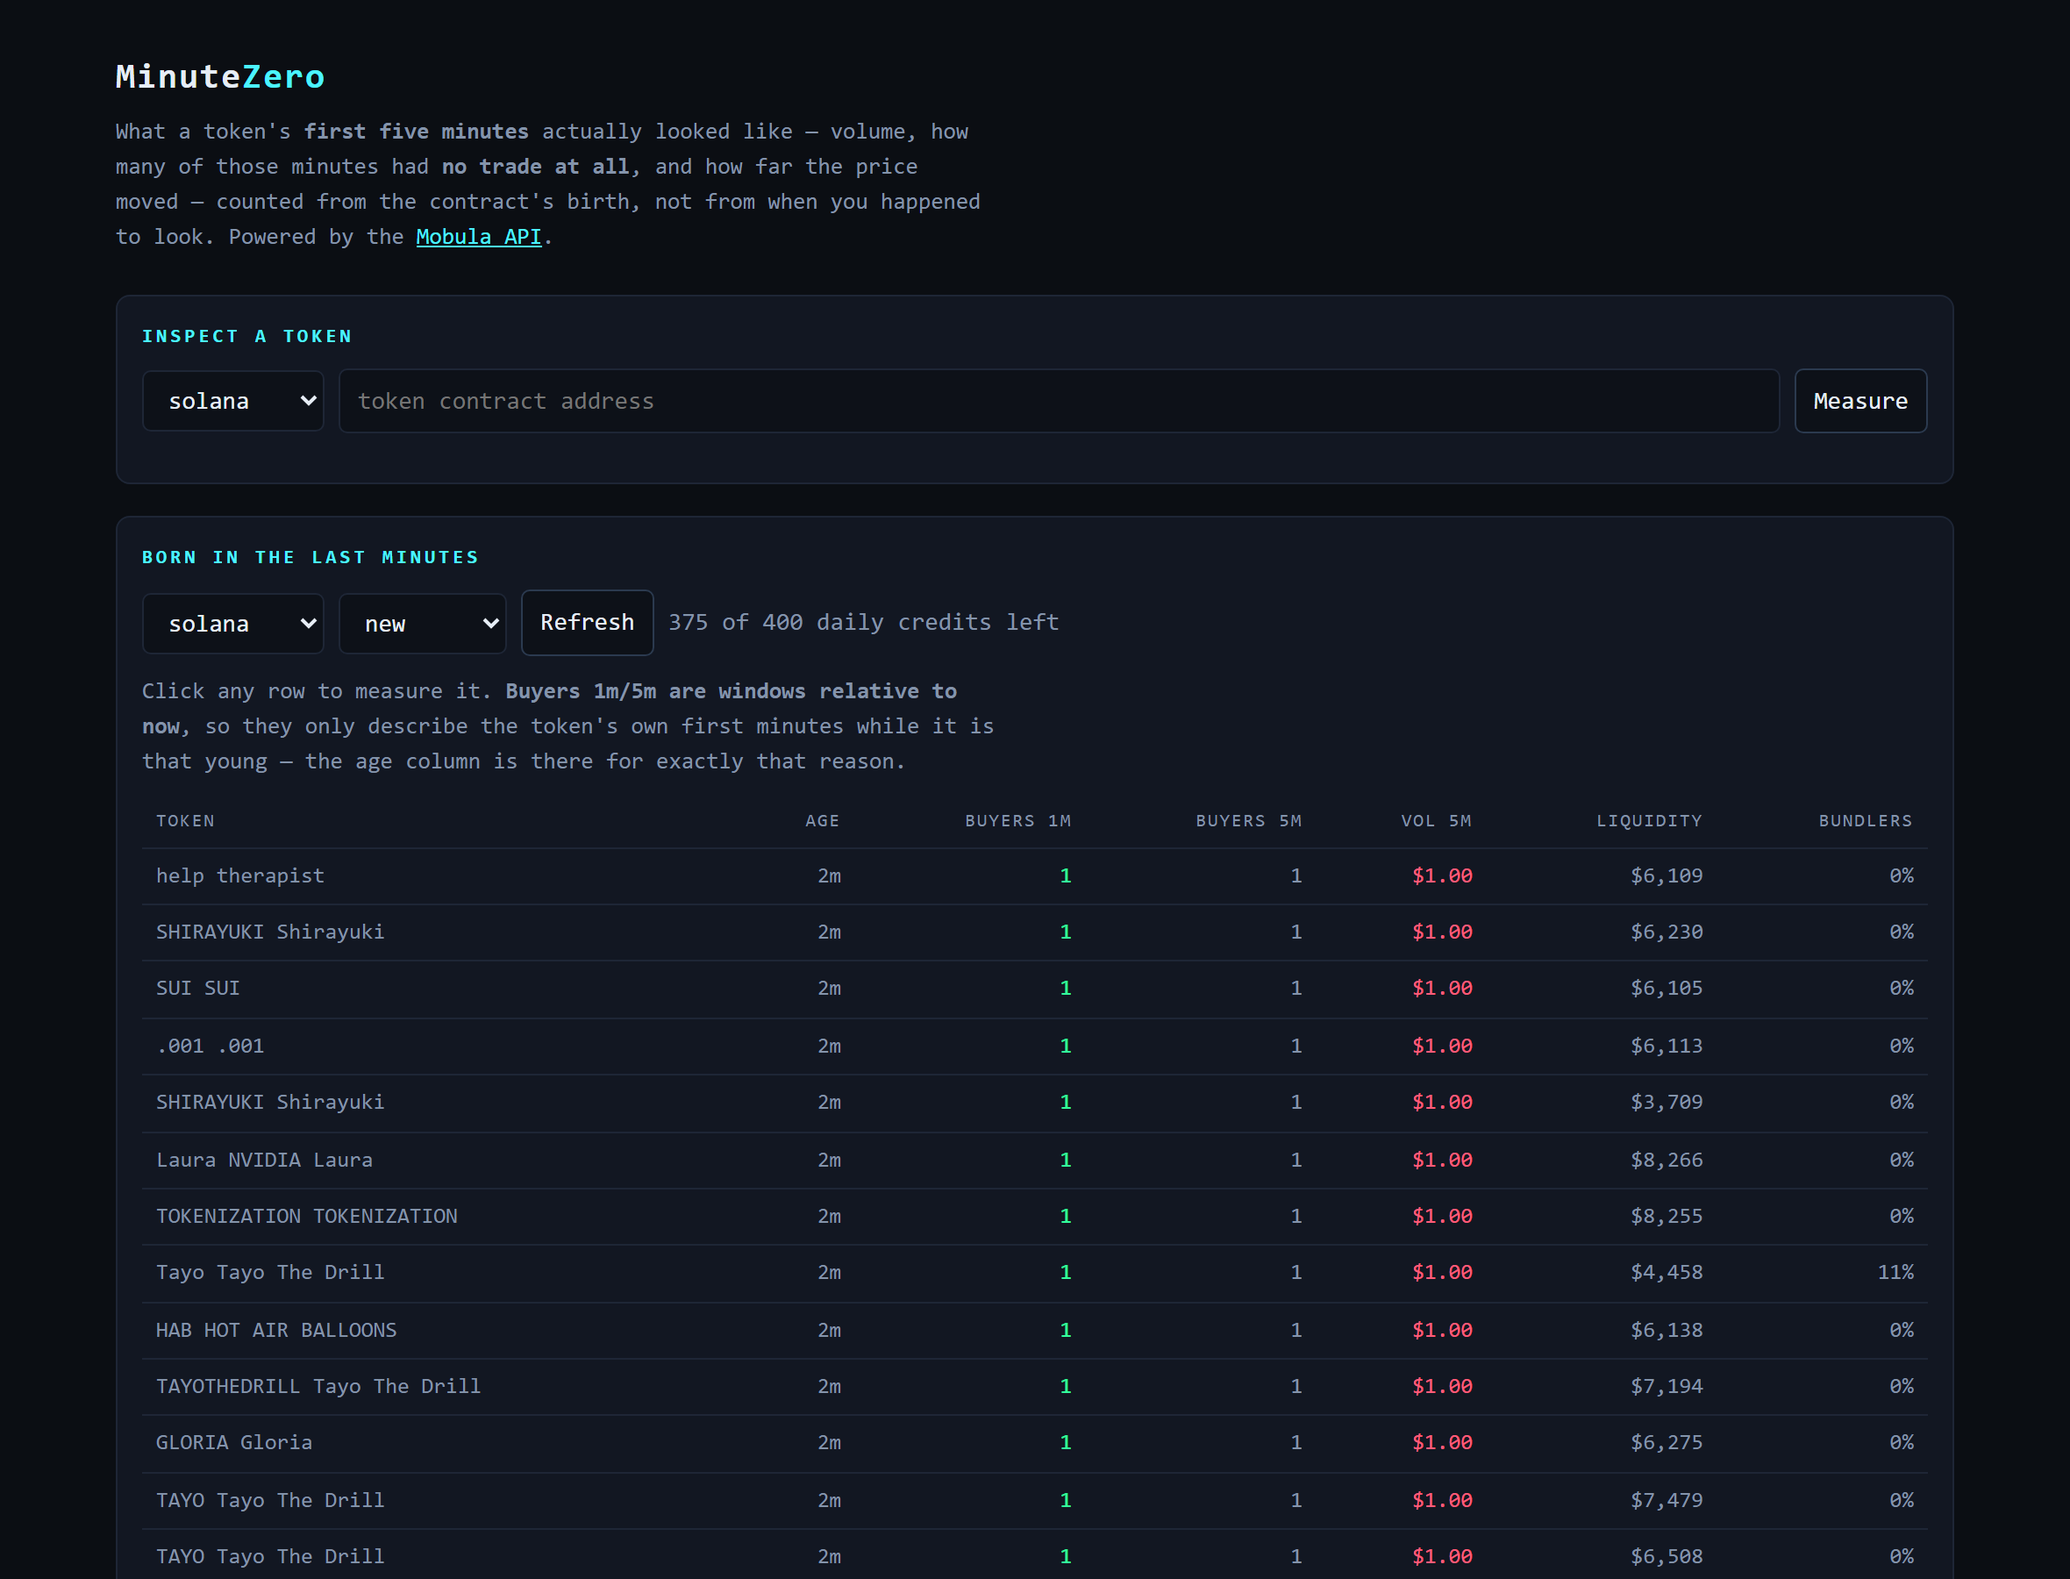
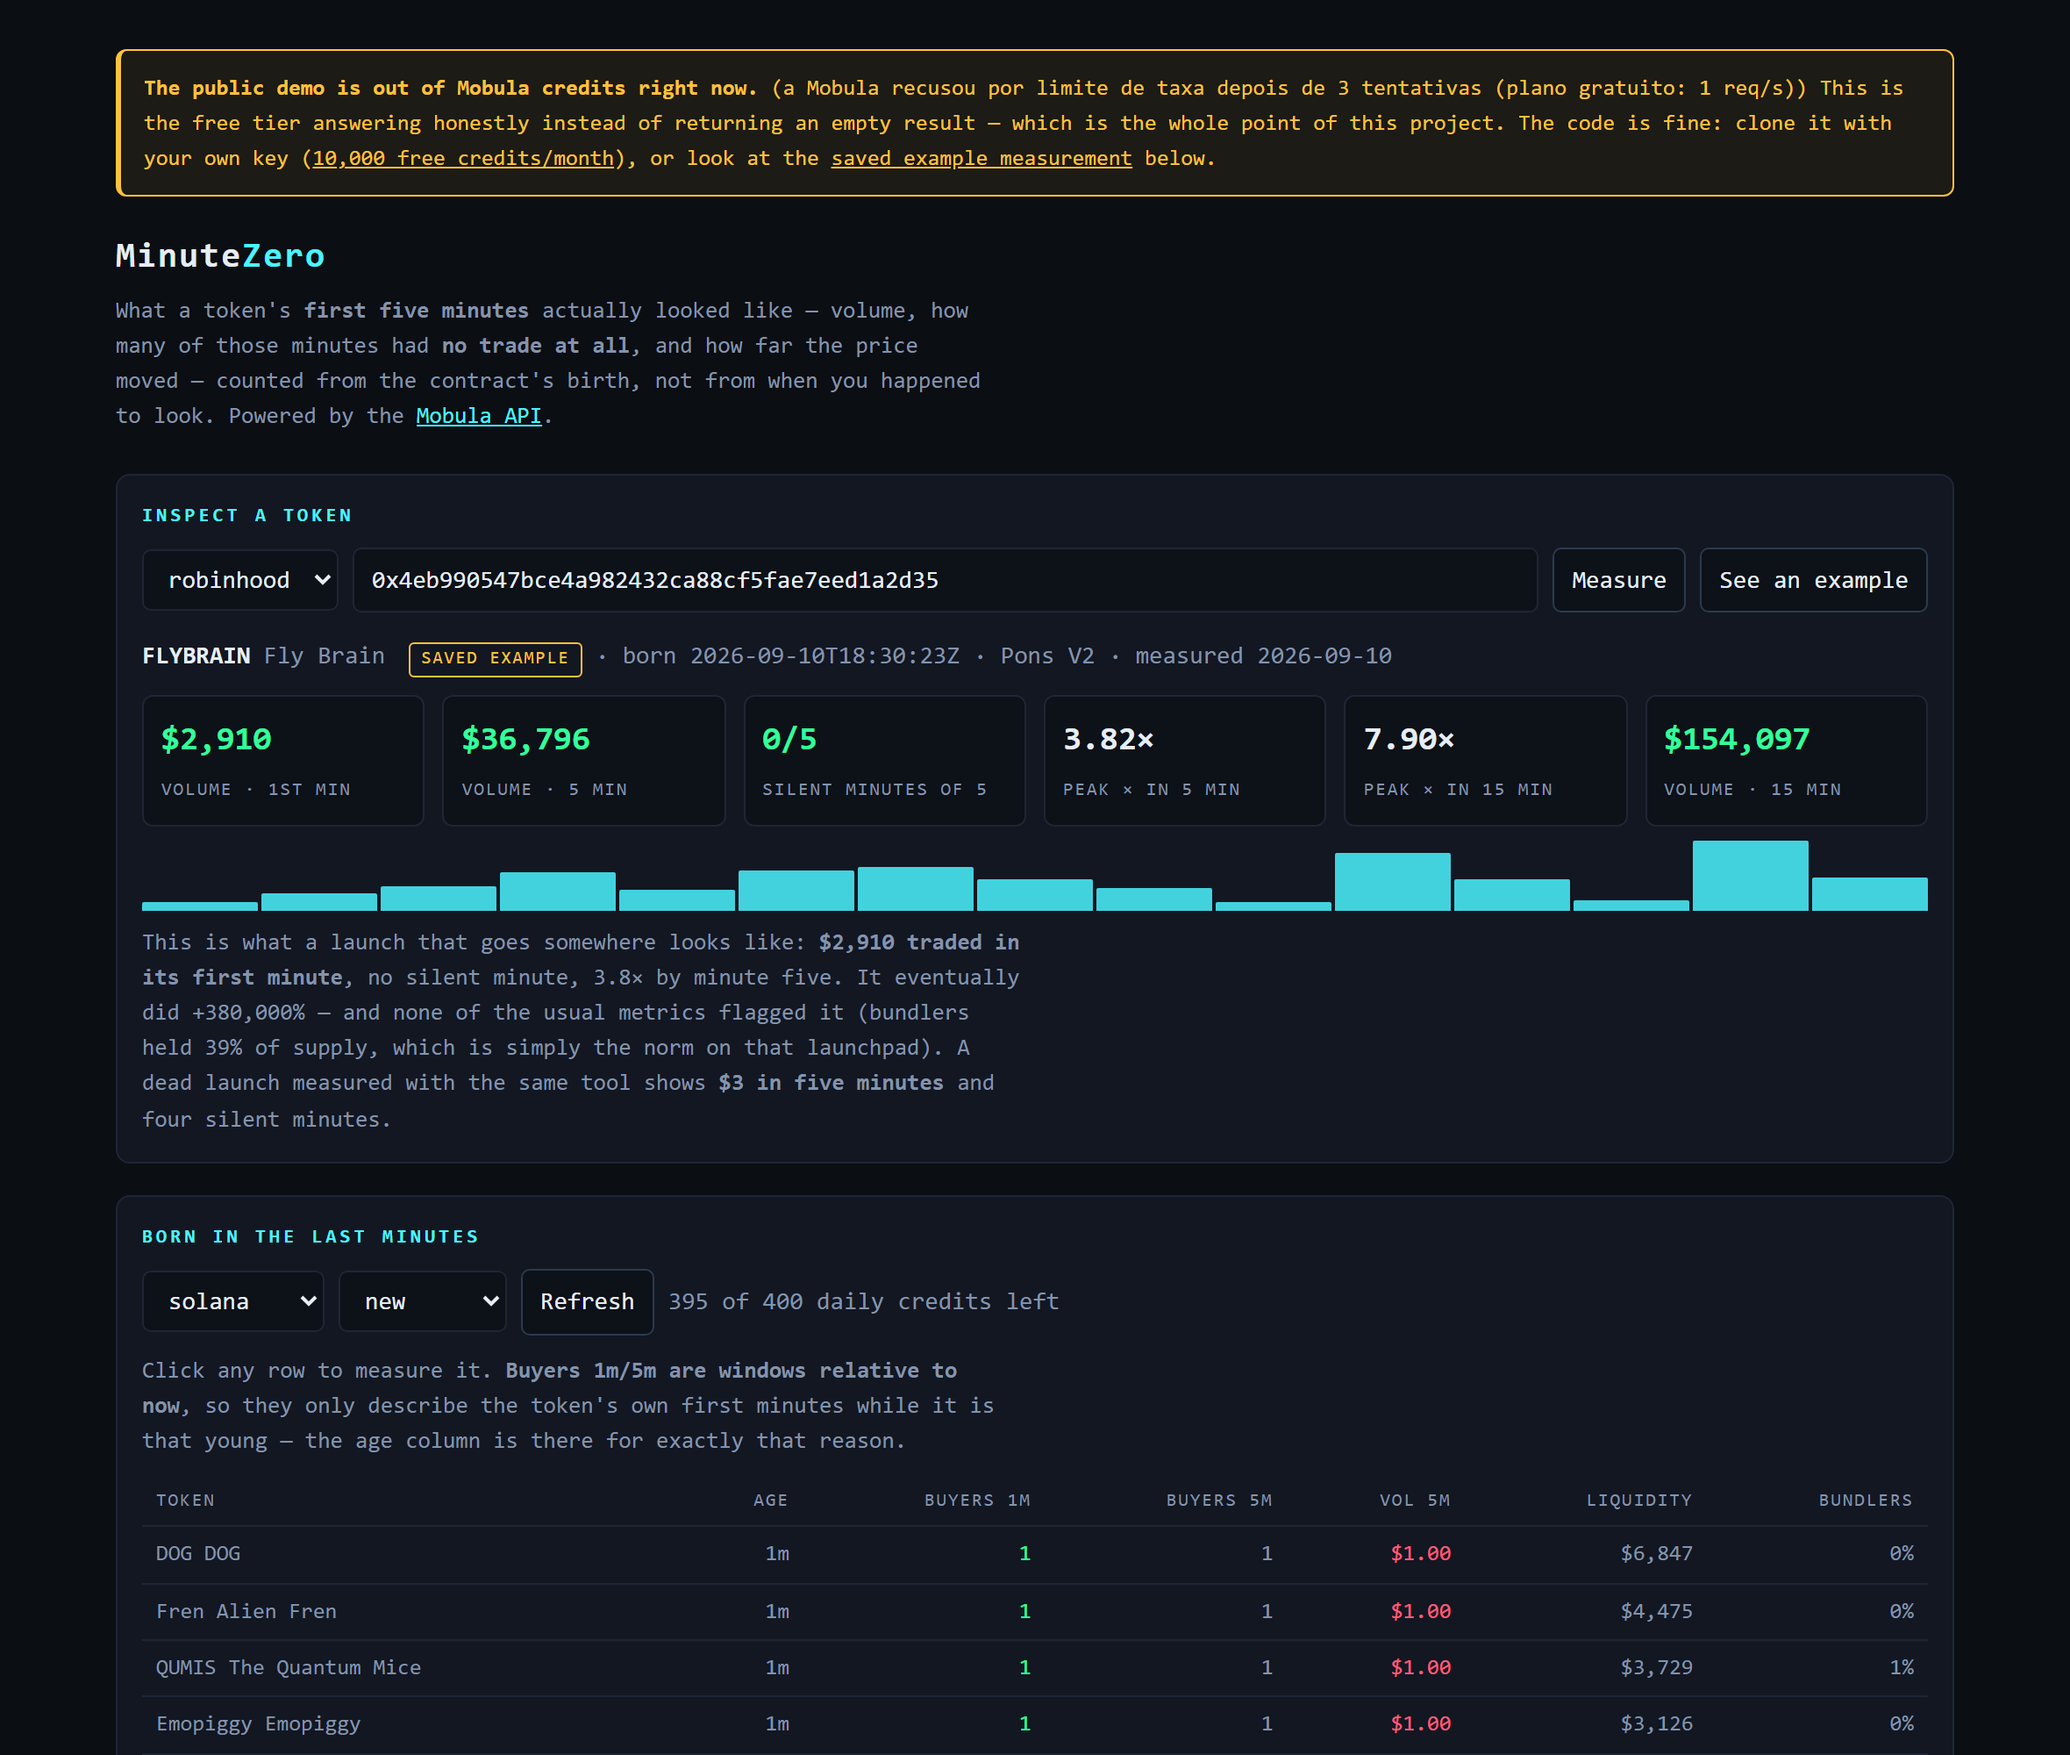
Traduzo as mensagens de erro, que são texto de tela numa página em inglês.
O aviso de cota aparecia com o detalhe em português no meio de uma interface inglesa - fica estranho
para quem for avaliar. Comentário de código continua em português, mensagem que o usuário lê, não.

diff --git a/api/_mobula.js b/api/_mobula.js
@@ -75,8 +75,8 @@ export async function mobulaGet(path, params, { ttlSegundos = 60 } = {}) {
   const conta = orcamento();
   if (conta.restam < custo) {
     throw new SemCota(
-      `teto diário de ${TETO_DIARIO} créditos atingido (${conta.gastos} usados). ` +
-        `Rode sua própria instância com sua chave: https://github.com/joedsonalves/minute-zero`
+      `daily cap of ${TETO_DIARIO} credits reached (${conta.gastos} spent). ` +
+        `Run your own instance with your key: https://github.com/joedsonalves/minute-zero`
     );
   }
 
@@ -97,11 +97,11 @@ export async function mobulaGet(path, params, { ttlSegundos = 60 } = {}) {
 
   if (resposta.status === 429 || resposta.status === 503) {
     throw new LimiteDeTaxa(
-      "a Mobula recusou por limite de taxa depois de 3 tentativas (plano gratuito: 1 req/s)"
+      "Mobula refused with a rate limit after 3 attempts (free tier: 1 req/s)"
     );
   }
   if (!resposta.ok) {
-    throw new Error(`Mobula respondeu ${resposta.status} em ${path}`);
+    throw new Error(`Mobula answered ${resposta.status} on ${path}`);
   }
 
   const dados = await resposta.json();

diff --git a/api/first-minutes.js b/api/first-minutes.js
@@ -41,7 +41,7 @@ export default async function handler(req, res) {
       // "não sei quando nasceu" é diferente de "nasceu e não negociou"
       return responder(res, 422, {
         erro: "sem_nascimento",
-        detalhe: "a Mobula não tem a data de criação deste contrato, então não dá para contar 'desde o minuto zero'.",
+        detalhe: "Mobula has no creation date for this contract, so there is no way to count from minute zero.",
       });
     }
 
